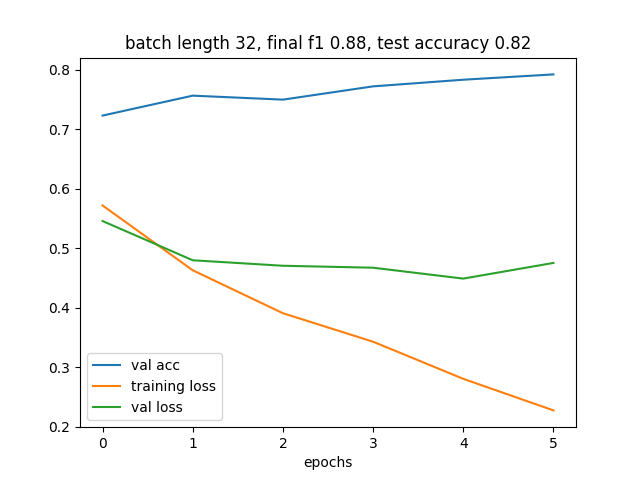
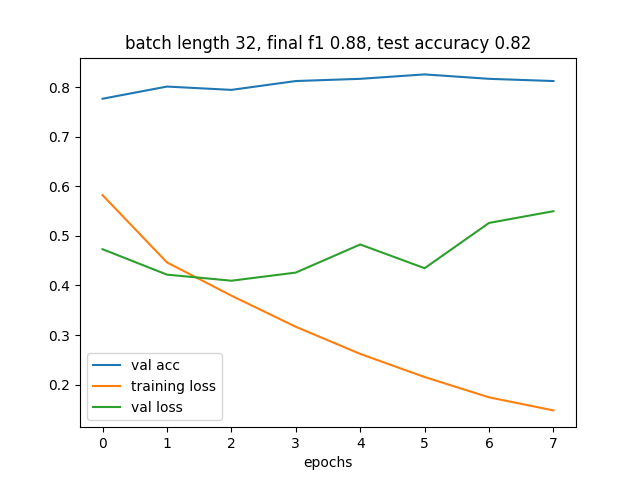
annotated 300 weakest learners. doesn't seem to have much effect

diff --git a/NorBert_utls/roberta_solar_sentiment.py b/NorBert_utls/roberta_solar_sentiment.py
@@ -11,9 +11,10 @@ import random
 import datetime
 import numpy as np
 import pandas as pd
+import seaborn as sn 
 import tensorflow as tf
 import matplotlib.pyplot as plt
-from sklearn.metrics import f1_score
+from sklearn.metrics import f1_score, confusion_matrix 
 from transformers import BertForSequenceClassification, AutoTokenizer
 from torch.utils.data import TensorDataset, random_split, DataLoader, RandomSampler, SequentialSampler
 from transformers import RobertaConfig, RobertaForSequenceClassification, AdamW, get_cosine_schedule_with_warmup
@@ -63,7 +64,7 @@ else:
 
 
 def roberta_sentiment(lr = 1e-5, batch_size = 16, epochs = 10, plot = False, predict = False):
-    infile = 'annotaion_4700_01label_comb_posneutral_0neg_1pos'
+    infile = 'annotaion_5000_01label_comb_posneutral_0neg_1pos_iwl'
     df = pd.read_csv('~/wind_power_analysis/data/'+infile+'.csv', 
                      sep=',', usecols=['text', 'label'], index_col=None)
 
@@ -432,18 +433,30 @@ def roberta_sentiment(lr = 1e-5, batch_size = 16, epochs = 10, plot = False, pre
     print("  F1: {0:.3f}".format(f1))
     print('    DONE.')
 
-    epochs = np.arange(epochs)
+    epochs_list = np.arange(epochs)
     if plot:
-        plt.plot(epochs, validation_accuracy, label = 'val acc')
-        plt.plot(epochs, training_loss, label = 'training loss')
-        plt.plot(epochs, validation_loss, label = 'val loss')
-        plt.xticks(epochs)
+        plt.plot(epochs_list, validation_accuracy, label = 'val acc')
+        plt.plot(epochs_list, training_loss, label = 'training loss')
+        plt.plot(epochs_list, validation_loss, label = 'val loss')
+        plt.xticks(epochs_list)
         plt.xlabel('epochs')
         plt.legend()
         plt.title(f'batch length {batch_size}, final f1 {f1:.2f}, test accuracy {avg_val_accuracy:.2f}')
         plt.savefig(infile+'.png')
         plt.show()
-    
+        conf_matrix = True
+        
+        if conf_matrix:
+            confusion = confusion_matrix(true_labels, predictions)
+            plt.figure(figsize = (8,8))
+            df_cm = pd.DataFrame(confusion, index = [i for i in ('False', 'True')],
+                  columns = [i for i in ('False', 'True')])
+            sn.heatmap(df_cm, annot = True, fmt = 'g')
+            plt.title(f'test data; epochs {epochs}, f1 {f1:.2f}, bach size {batch_size} posneutral')
+            plt.savefig(f'confusion_matrix_epochs{epochs}_f1{f1:.2f}.png')
+
+
+
 
         # ========================================
         #               Prediction
@@ -564,6 +577,7 @@ def roberta_sentiment(lr = 1e-5, batch_size = 16, epochs = 10, plot = False, pre
             
             df.to_csv(predict_dataset+out_filename)
             print('    DONE.')
+
         
     return epochs, validation_accuracy, training_loss, validation_loss
 
@@ -601,5 +615,5 @@ def gridsearch():
 if __name__ == '__main__':
         
 
-    roberta_sentiment(lr = 1e-5, batch_size = 32, epochs = 6, plot=True, predict = False)
+    roberta_sentiment(lr = 1e-5, batch_size = 32, epochs = 8, plot=True, predict = False)
 

diff --git a/data/data_utils.py b/data/data_utils.py
@@ -2,22 +2,13 @@ import numpy as np
 import pandas as pd
 
 def append_csv():
-    df1 = pd.read_csv('annotation_3000_012label.csv', usecols = ['text', 'label'], index_col = False)
-    df2 = pd.read_csv('400_thirdrendition_annotated.csv', usecols = ['text', 'label'], index_col = False)
-    df3 = pd.read_csv('100_thirdrendition_anotated.csv', usecols = ['text', 'label'], index_col = False)
-    df4 = pd.read_csv('100_thirdrendition_anotated2.csv', usecols = ['text', 'label'], index_col = False)
-    df5 = pd.read_csv('100_thirdrendition_anotated3.csv', usecols = ['text', 'label'], index_col = False)
-    df6 = pd.read_csv('100_thirdrendition_anotated4.csv', usecols = ['text', 'label'], index_col = False)
-    df7 = pd.read_csv('100_thirdrendition_anotated5.csv', usecols = ['text', 'label'], index_col = False)
-    df8 = pd.read_csv('100_thirdrendition_anotated6.csv', usecols = ['text', 'label'], index_col = False)
-    df9 = pd.read_csv('100_thirdrendition_anotated7.csv', usecols = ['text', 'label'], index_col = False)
-    df10 = pd.read_csv('200_thirdrendition_anotated.csv', usecols = ['text', 'label'], index_col = False)
-    df11 = pd.read_csv('200_thirdrendition_anotated2.csv', usecols = ['text', 'label'], index_col = False)
-    df12 = pd.read_csv('200_thirdrendition_anotated3.csv', usecols = ['text', 'label'], index_col = False)
+    #note; wli: weak logits included
+    df1 = pd.read_csv('annotation_4700_012label.csv', usecols = ['text', 'label'], index_col = False)
+    df2 = pd.read_csv('second_rendition_predicted_logitsorted_bottom300.csv', usecols = ['text', 'label'], index_col = False)
 
-    df_out = pd.concat([df1, df2,df3,df4,df5,df6,df7,df8,df9,df10,df11,df12])
+    df_out = pd.concat([df1, df2])
     df_out = df_out.reset_index()
-    df_out.to_csv('annotation_4700_012label.csv')
+    df_out.to_csv('annotation_5000_012label_wli.csv')
 
 def remove_category():
     data = pd.read_csv('annotaion_3000_012label.csv')
@@ -26,10 +17,10 @@ def remove_category():
     data_out.to_csv('annotaion_3000_01label_noneutral.csv', index = False)
 
 def rename_category():
-    data = pd.read_csv('annotation_4700_012label.csv')
+    data = pd.read_csv('annotation_5000_012label_wli.csv')
     data.loc[data['label'] == 1, 'label'] = 2 # set label 2 to 1, so we have 0,1
     data.loc[data['label'] == 2, 'label'] = 1 #positive now 1
-    data.to_csv('annotaion_4700_01label_comb_posneutral_0neg_1pos.csv', index = False)
+    data.to_csv('annotaion_5000_01label_comb_posneutral_0neg_1pos_iwl.csv', index = False)
     
 
 def rename_column():
@@ -135,9 +126,8 @@ def weak_performer_extractor():
     print(sortorder)
     sortorder = sortorder[sortorder[:,1].argsort()]
     df = df.iloc[sortorder[:,0]]
-    bottom_200 = df.head(n=300)
-    midtop_100 = bottom_200.tail(n=200)
-    midtop_100.to_csv('second_rendition_predicted_logitsorted_midtop100.csv')
+    bottom_300 = df.head(n=300)
+    bottom_300.to_csv('second_rendition_predicted_logitsorted_bottom300.csv')
     print(df)
 
 if __name__ == '__main__':

diff --git a/NorBert_utls/various_methods/roberta_threelabel.py b/NorBert_utls/various_methods/roberta_threelabel.py
@@ -41,7 +41,7 @@ else:
     print('No GPU available, using the CPU instead.')
     device = torch.device("cpu")
 
-infile = 'annotation_4700_012label'
+infile = 'annotation_5000_012label_wli'
 df = pd.read_csv('~/wind_power_analysis/data/'+infile+'.csv', 
                  sep=',', usecols=['text', 'label'], index_col=None)
 
@@ -72,7 +72,7 @@ for i in range(0,len(sentences)):
 
 batch_size = 16
 max_length = 300
-epochs = 19
+epochs = 10
 
 # Load the BERT tokenizer.
 tokenizer = AutoTokenizer.from_pretrained('ltgoslo/norbert2', do_lower_case=False)
